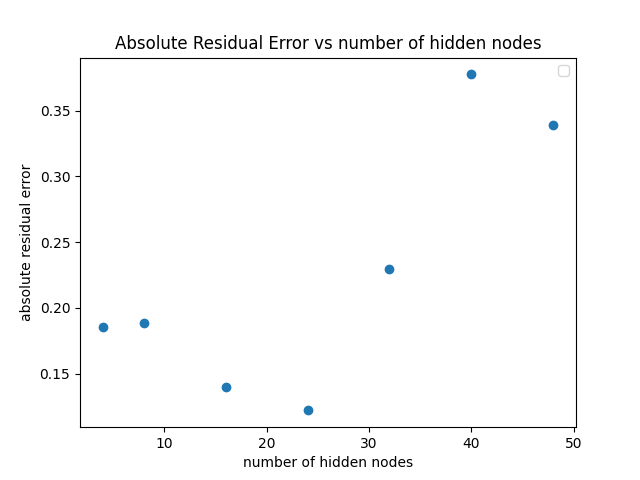
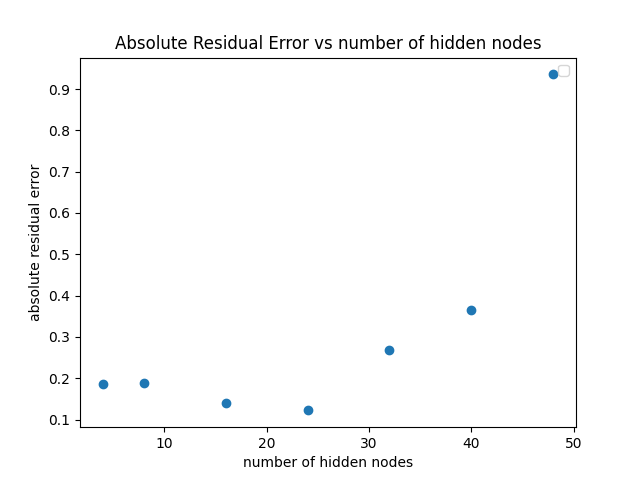
Hybrid learning for 2d data

diff --git a/lab2/rbf.py b/lab2/rbf.py
@@ -1,19 +1,25 @@
 import numpy as np
 import matplotlib.pyplot as plt
+from numpy.core.numeric import indices
+from scipy.sparse.construct import rand
 from sklearn.utils import shuffle
+import random
 
 
 class RBF():
-    def __init__(self, n=1, drop=2**9-1, weight=1, sigma=0.5):
-
-        self.set_centers(n, drop, weight)
-        self.set_sigmas(sigma)
+    def __init__(self, n=1, drop=2**9-1, weight=1, sigma=0.5, dim=1):
+        if dim == 1:
+            self.set_centers(n, drop, weight)
+            self.set_sigmas(sigma)
 
     def compute_phi(self, x):
-        centers_matrix = np.repeat(self.centers[None], x.shape[0], axis=0)
-        x_matrix = np.repeat(x[None], self.centers.shape[0], axis=0).T
-        phi = np.exp(-(x_matrix-centers_matrix)**2 / (2*self.sigmas**2))
-        plt.show()
+        n, N = self.centers.shape[0], x.shape[0]
+        phi = np.zeros((N, n))
+        for i in range(N):
+            for j in range(n):
+                phi[i, j] = np.exp(-(np.linalg.norm(x[i] -
+                                                    self.centers[j])**2) / (2*self.sigmas[j]**2))
+        phi = np.array(phi)
         return phi
 
     def batch_learning(self, x, f, x_test, f_test):
@@ -27,15 +33,21 @@ class RBF():
         error = np.mean(abs(f_hat-f_test))
         return f_hat, error
 
-    def delta_learning(self, X, f, X_test, f_test, lr=0.01, max_iters=250, seed=42):
-        weights = np.random.default_rng(seed).normal(0, 0.5, self.n_nodes)
+    def delta_learning(self, X, f, X_test, f_test, lr=0.01, max_iters=15, seed=42):
+        weights = np.random.default_rng(seed).normal(
+            0, 0.5, (self.n_nodes, X.shape[1]))
+
         for _ in range(max_iters):
-            X, f = shuffle(X, f)
+            X, f = shuffle(X, f, random_state=seed)
             for idx, x in enumerate(X):
-                phi = self.compute_phi(np.array([x]))
-                weight_update = (
-                    lr*(np.array(f[idx]) - phi @ weights[:, None]) @ phi).flatten()
-                weights += weight_update
+                try:
+                    phi = self.compute_phi(x)
+                except:
+                    phi = self.compute_phi(np.array([x]))
+                f_arr = np.array(f[idx])
+                test = f_arr - phi @ weights
+                weight_update = lr*(f_arr - phi @ weights).T @ phi
+                weights += weight_update.T
 
         phi_test = self.compute_phi(X_test)
         f_hat = phi_test @ weights
@@ -43,26 +55,29 @@ class RBF():
         return f_hat, error
 
     def competitive_learning(self, X, eta=0.1, neigh=3, max_iter=60, seed=42):
-        np.random.seed(42)
+        np.random.seed(seed)
         for i in range(max_iter):
             x = X[np.random.randint(X.shape[0])]
             try:
-                distances = [[i_c, np.linalg.norm(x, self.centers[i_c])] for i_c in range(len(self.centers))]
+                distances = [[i_c, np.linalg.norm(
+                    x - self.centers[i_c])] for i_c in range(len(self.centers))]
             except:
-                distances = [[i_c, np.linalg.norm(np.array([x]), np.array([self.centers[i_c]]))] for i_c in range(len(self.centers))]
+                distances = [[i_c, np.linalg.norm(np.array(
+                    [x]) - np.array([self.centers[i_c]]))] for i_c in range(len(self.centers))]
 
             distances.sort(key=lambda x: x[1])
             for i in range(neigh):
                 coef = eta / (distances[i][1] + 1e-3)
                 if coef >= 0.9:
                     coef = 0.9
-                self.centers[distances[i][0]] += coef * (x - self.centers[distances[i][0]])
+                self.centers[distances[i][0]] += coef * \
+                    (x - self.centers[distances[i][0]])
 
     def hybrid_learning(self, X, f, X_test, f_test, lr=0.01, max_iters=250, seed=42, eta=0.1, neigh=3):
         self.competitive_learning(X, eta, neigh)
-        f_hat, error = self.delta_learning(X, f, X_test, f_test, lr, max_iters, seed)
+        f_hat, error = self.delta_learning(
+            X, f, X_test, f_test, lr, max_iters, seed)
         return f_hat, error
-
 
     def set_centers(self, n, drop, weight):
         x_line = np.linspace(0, 2, 9)*np.pi
@@ -84,3 +99,10 @@ class RBF():
 
     def set_sigmas(self, sigma):
         self.sigmas = np.full(self.n_nodes, sigma)
+
+    def set_centers_from_data(self, x, n_nodes, sigma=1.0, seed=42):
+        random.seed(seed)
+        self.n_nodes = n_nodes
+        indices = random.sample(range(len(x)), n_nodes)
+        self.centers = x[indices]
+        self.set_sigmas(sigma)

diff --git a/lab2/rbf_2d_test.py b/lab2/rbf_2d_test.py
@@ -1,12 +1,10 @@
 from rbf import RBF
-from dataset import SinusData
-from dataset import SquareData
 import matplotlib.pyplot as plt
 import numpy as np
 
 def experiment(data, n_nodes, error, n, weight=1.0):
     rbf_net = RBF(n=n, weight=weight)
-    _, err = rbf_net.batch_learning(
+    _, err = rbf_net.hybrid_learning(
         data.x, data.y, data.x_test, data.y_test)
     n_nodes.append(rbf_net.n_nodes)
     error.append(err)
@@ -16,7 +14,7 @@ def experiment2(data, n_nodes, error, n):
     rbf_net.centers = np.linspace(0, 2*np.pi, n)
     rbf_net.n_nodes = n
     rbf_net.set_sigmas(0.5)
-    _, err = rbf_net.batch_learning(
+    _, err = rbf_net.hybrid_learning(
         data.x, data.y, data.x_test, data.y_test)
     n_nodes.append(rbf_net.n_nodes)
     error.append(err)
@@ -40,33 +38,34 @@ def plot_error(n_nodes, error, data):
     plt.show()
 
 
-def plot_estimate(data, type, n=3):
-    rbf_net = RBF(n=n)
-    y_hat, error = rbf_net.batch_learning(
-        data.x, data.y, data.x_test, data.y_test)
+def plot_estimate(x, y, x_test, y_test, n_nodes=20):
+    rbf_net = RBF()
+    rbf_net.set_centers_from_data(x, n_nodes)
+    y_hat, error = rbf_net.hybrid_learning(
+        x, y, x_test, y_test)
     centers, n_nodes = rbf_net.centers, rbf_net.n_nodes
-    plt.plot(data.x_test, data.y_test, label="Target")
-    plt.plot(data.x_test, y_hat, label="Estimate")
-    plt.scatter(centers, [0]*n_nodes, c="r", label="RBF Centers")
-    plt.xlabel("x")
-    plt.ylabel("y")
-    plt.title(f'Target vs Estimated values with {n_nodes} hidden nodes, error= {round(error,5)}')
-    plt.legend()
-    plt.grid(True)
-    plt.savefig(f"images/3.1/{type}/{type}_{n_nodes}.png")
-    plt.show()
+    # plt.plot(data.x_test, data.y_test, label="Target")
+    # plt.plot(data.x_test, y_hat, label="Estimate")
+    # plt.scatter(centers, [0]*n_nodes, c="r", label="RBF Centers")
+    # plt.xlabel("x")
+    # plt.ylabel("y")
+    # plt.title(f'Target vs Estimated values with {n_nodes} hidden nodes, error= {round(error,5)}')
+    # plt.legend()
+    # plt.grid(True)
+    # plt.savefig(f"images/3.1/{type}/{type}_{n_nodes}.png")
+    # plt.show()
+    print(error)
 
 
-sin_data = SinusData(noise=False)
-error, n_nodes = experiment_nodes(sin_data)
-plot_error(n_nodes, error, "sinus")
-# plot_estimate(sin_data, type="sinus", n=3)
+data = np.loadtxt('data_lab2/ballist.dat')
+test = np.loadtxt('data_lab2/balltest.dat')
 
+x = data[:, :2]
+y = data[:, 2:]
+x_test = test[:, :2]
+y_test = test[:, 2:]
 
-sqr_data = SquareData(noise=True)
-error, n_nodes = experiment_nodes(sqr_data)
-plot_error(n_nodes, error, "square")
+plot_estimate(x, y, x_test, y_test, n_nodes=20)
 
-# plot_estimate(sqr_data, type="square", n=2)
 
 

diff --git a/lab2/rbf_batch_test.py b/lab2/rbf_batch_test.py
@@ -1,0 +1,72 @@
+from rbf import RBF
+from dataset import SinusData
+from dataset import SquareData
+import matplotlib.pyplot as plt
+import numpy as np
+
+def experiment(data, n_nodes, error, n, weight=1.0):
+    rbf_net = RBF(n=n, weight=weight)
+    _, err = rbf_net.batch_learning(
+        data.x, data.y, data.x_test, data.y_test)
+    n_nodes.append(rbf_net.n_nodes)
+    error.append(err)
+
+def experiment2(data, n_nodes, error, n):
+    rbf_net = RBF(n=n)
+    rbf_net.centers = np.linspace(0, 2*np.pi, n)
+    rbf_net.n_nodes = n
+    rbf_net.set_sigmas(0.5)
+    _, err = rbf_net.batch_learning(
+        data.x, data.y, data.x_test, data.y_test)
+    n_nodes.append(rbf_net.n_nodes)
+    error.append(err)
+
+def experiment_nodes(data):
+    error = []
+    n_nodes = []
+    for i in range(7):
+        experiment(data, n_nodes, error, n=i, weight=1.0)
+        # experiment2(data, n_nodes, error, n=i)
+
+    return error, n_nodes
+
+def plot_error(n_nodes, error, data):
+    plt.scatter(n_nodes, error)
+    plt.xlabel("number of hidden nodes")
+    plt.ylabel("absolute residual error")
+    plt.title("Absolute Residual Error vs number of hidden nodes")
+    plt.legend()
+    plt.savefig(f"images/3.1/{data}_error_{len(n_nodes)}.png")
+    plt.show()
+
+
+def plot_estimate(data, type, n=3):
+    rbf_net = RBF(n=n)
+    y_hat, error = rbf_net.batch_learning(
+        data.x, data.y, data.x_test, data.y_test)
+    centers, n_nodes = rbf_net.centers, rbf_net.n_nodes
+    plt.plot(data.x_test, data.y_test, label="Target")
+    plt.plot(data.x_test, y_hat, label="Estimate")
+    plt.scatter(centers, [0]*n_nodes, c="r", label="RBF Centers")
+    plt.xlabel("x")
+    plt.ylabel("y")
+    plt.title(f'Target vs Estimated values with {n_nodes} hidden nodes, error= {round(error,5)}')
+    plt.legend()
+    plt.grid(True)
+    plt.savefig(f"images/3.1/{type}/{type}_{n_nodes}.png")
+    plt.show()
+
+
+sin_data = SinusData(noise=False)
+# error, n_nodes = experiment_nodes(sin_data)
+# plot_error(n_nodes, error, "sinus")
+plot_estimate(sin_data, type="sinus", n=3)
+
+
+sqr_data = SquareData(noise=True)
+error, n_nodes = experiment_nodes(sqr_data)
+plot_error(n_nodes, error, "square")
+
+# plot_estimate(sqr_data, type="square", n=2)
+
+

diff --git a/lab2/dataset.py b/lab2/dataset.py
@@ -16,13 +16,13 @@ class XData():
         np.random.seed(seed)
         x, x_test = generate_x(start, end, start_test, step)
 
-        self.x = np.array(x)
-        self.x_test = np.array(x_test)
+        self.x = (np.array(x)).reshape(len(x), 1)
+        self.x_test = (np.array(x_test)).reshape(len(x_test), 1)
 
         if noise:
-            noise = np.random.normal(0, 0.1, len(x))
+            noise = np.random.normal(0, 0.1, (len(x),1))
             self.x += noise
-            noise_test = np.random.normal(0, 0.1, len(x))
+            noise_test = np.random.normal(0, 0.1, (len(x),1))
             self.x_test += noise_test
 
 
@@ -30,10 +30,17 @@ class SinusData(XData):
     def __init__(self, start=0, end=2*np.pi, start_test=0.05, step=0.1, noise=False, seed=42) -> None:
         super().__init__(start, end, start_test, step, noise, seed)
         self.y = np.sin(2*self.x)
+        self.y = self.y.reshape(len(self.x), 1)
         self.y_test = np.sin(2*self.x_test)
+        self.y_test = self.y_test.reshape(len(self.x_test), 1)
+
 
 class SquareData(XData):
     def __init__(self, start=0, end=2*np.pi, start_test=0.05, step=0.1, noise=False, seed=42) -> None:
         super().__init__(start, end, start_test, step, noise, seed)
-        self.y = np.array([0 if sin_val < 0 else 1 for sin_val in np.sin(2*self.x)])
-        self.y_test = np.array([0 if sin_val < 0 else 1 for sin_val in np.sin(2*self.x_test)])
+        self.y = np.array([0 if sin_val < 0 else 1 for sin_val in np.sin(
+            2*self.x)]).reshape(len(self.x), 1)
+        self.y = self.y.reshape(len(self.x), 1)
+        self.y_test = np.array([0 if sin_val < 0 else 1 for sin_val in np.sin(
+            2*self.x_test)])
+        self.y_test = self.y_test.reshape(len(self.x_test), 1)
